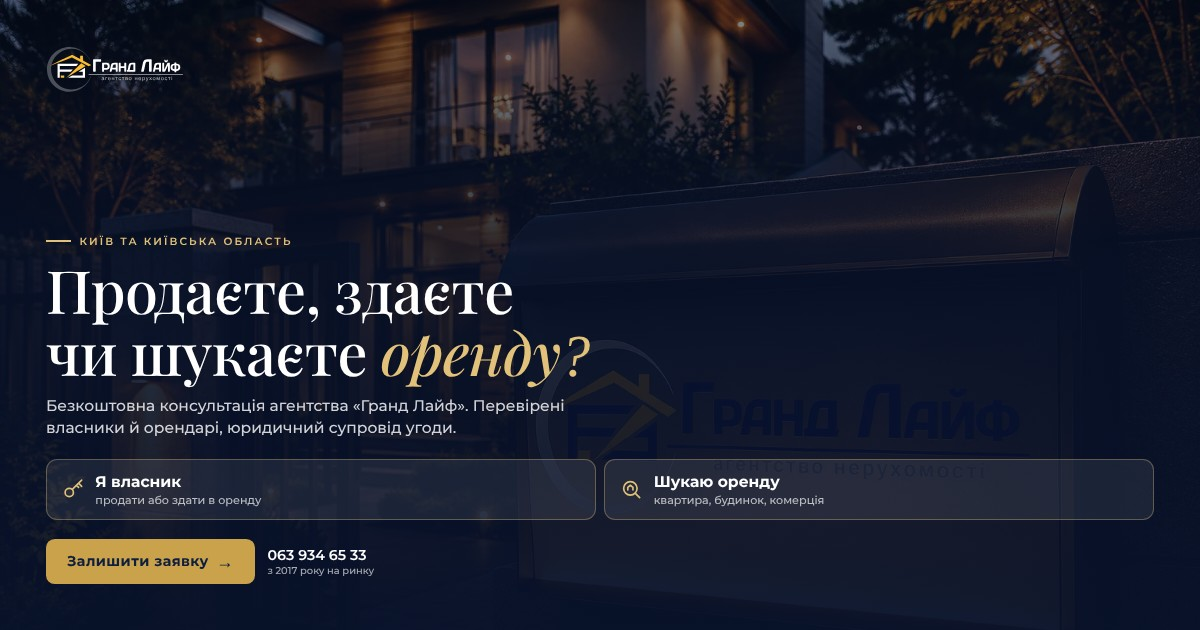
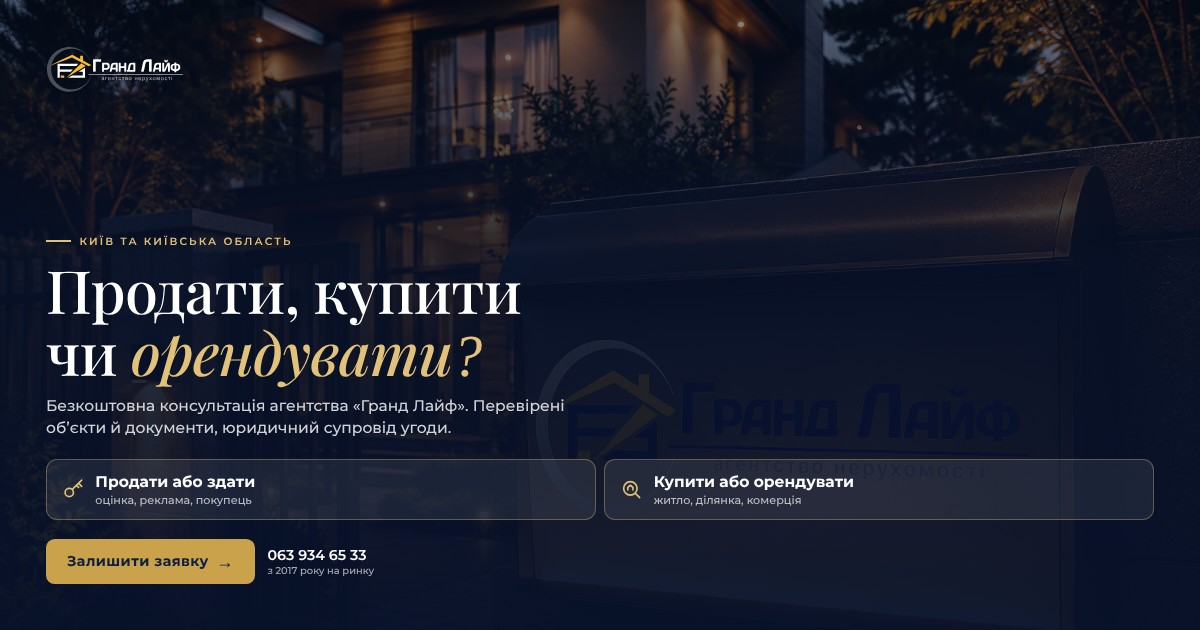
Popup: 'Що саме вас цікавить?' — sell/rent out or buy/rent
- Step 1: 'Продати або здати в оренду' / 'Купити або орендувати'
- Second branch now offers Купити / Орендувати (new lead kind 'Купівля')
- Admin labels, banner bar, landing preview and social banners updated
- Selected object type is clearly highlighted

Claude-Session: https://claude.ai/code/session_01KaPVfqdgp98MZxPFNyffPN

diff --git a/assets/promo.js b/assets/promo.js
@@ -1,7 +1,7 @@
 /* Реклама: вікно при відкритті сайту (крок 1 — «Ви власник чи шукаєте оренду?», крок 2 — форма для власника
    або для орендаря) і банер унизу, що їде за сторінкою.
    Заявки зберігаються в Supabase (таблиця grandlife_leads) і видно в адмінці → «Заявки». */
-import { S, I, esc, store, telHref, $ } from './core.js?v=20261128';
+import { S, I, esc, store, telHref, $ } from './core.js?v=20261129';
 
 const SENT = 'gl_lead_sent2';   // коли відвідувач залишив заявку (вікно 3 дні не показуємо)
 const ls = { get: (k) => { try { return localStorage.getItem(k); } catch { return null; } } };
@@ -18,7 +18,6 @@ const ICO = {
 };
 const phone = (S.phones || [])[0];
 const OBJECTS = ['Квартира', 'Будинок', 'Ділянка', 'Комерція'];
-const RENT_OBJECTS = ['Квартира', 'Будинок', 'Комерція'];
 
 /* Тексти обох гілок. Змінюйте тут. */
 const FLOW = {
@@ -26,17 +25,19 @@ const FLOW = {
     img: S.aboutImage || S.heroImage, badge: ['3 тижні', 'середній строк продажу'],
     kicker: 'Власникам нерухомості',
     title: 'Бажаєте <em>продати</em> чи <em>здати в оренду?</em>',
+    choices: [['Продаж', 'Продати', 'оцінка, реклама, покупець', 'sell'], ['Оренда', 'Здати в оренду', 'перевірені орендарі', 'rent']],
     lead: 'Безкоштовно оцінимо ваш об’єкт і знайдемо покупця або орендаря. Фото, реклама і юридичний супровід — беремо на себе.',
     objects: OBJECTS, objectsLabel: 'Що у вас є',
     submit: 'Отримати безкоштовну оцінку',
     done: 'Менеджер зателефонує вам найближчим часом, щоб домовитись про безкоштовну оцінку.',
   },
-  tenant: {
+  tenant: { // покупці та орендарі (?who=tenant або ?who=buyer)
     img: S.about?.image || S.aboutImage || S.heroImage, badge: ['Київ', 'та Київська область'],
-    kicker: 'Для орендарів',
-    title: 'Шукаєте нерухомість <em>в оренду?</em>',
-    lead: 'Підберемо квартиру, будинок або комерційне приміщення під ваш бюджет і район. Тільки перевірені власники, покази у зручний час і прозорий договір оренди.',
-    objects: RENT_OBJECTS, objectsLabel: 'Що шукаєте',
+    kicker: 'Для покупців і орендарів',
+    title: 'Бажаєте <em>купити</em> чи <em>орендувати?</em>',
+    lead: 'Підберемо квартиру, будинок, ділянку або комерцію під ваш бюджет і район. Перевіряємо документи й власників, організовуємо покази і супроводжуємо угоду.',
+    choices: [['Купівля', 'Купити', 'перевірені об’єкти й документи', 'sell'], ['Шукає оренду', 'Орендувати', 'перевірені власники', 'rent']],
+    objects: OBJECTS, objectsLabel: 'Що шукаєте',
     submit: 'Підібрати варіанти',
     done: 'Менеджер зателефонує вам найближчим часом, уточнить побажання і надішле підходящі варіанти.',
   },
@@ -50,11 +51,11 @@ export function mountFlow(body, { side = () => {}, close = () => {}, source = ''
     side(S.heroImage, ['Гранд Лайф', 'агентство нерухомості з 2017 року']);
     body.innerHTML = `
       <span class="kicker">Безкоштовна консультація</span>
-      <h2 class="h2" id="promoTitle">Ви <em>власник</em> чи шукаєте <em>оренду?</em></h2>
+      <h2 class="h2" id="promoTitle">Що саме вас <em>цікавить?</em></h2>
       <p class="promo-lead">Оберіть, і ми підкажемо, як допомогти саме вам.</p>
       <div class="promo-who">
-        <button type="button" data-who="owner">${ICO.owner}<span><b>Я власник</b><small>хочу продати або здати в оренду квартиру, будинок, ділянку чи комерцію</small></span>${ICO.arrow}</button>
-        <button type="button" data-who="tenant">${ICO.tenant}<span><b>Шукаю оренду</b><small>хочу орендувати житло або комерційне приміщення</small></span>${ICO.arrow}</button>
+        <button type="button" data-who="owner">${ICO.owner}<span><b>Продати або здати в оренду</b><small>квартиру, будинок, ділянку чи комерцію</small></span>${ICO.arrow}</button>
+        <button type="button" data-who="tenant">${ICO.tenant}<span><b>Купити або орендувати</b><small>квартиру, будинок, ділянку чи комерцію</small></span>${ICO.arrow}</button>
       </div>
       ${phone ? `<p class="promo-alt">або зателефонуйте: <a href="${telHref(phone)}">${esc(phone)}</a></p>` : ''}`;
     body.querySelector('.promo-who').onclick = (e) => { const b = e.target.closest('[data-who]'); if (b) stepForm(b.dataset.who); };
@@ -63,7 +64,7 @@ export function mountFlow(body, { side = () => {}, close = () => {}, source = ''
   /* Крок 2: форма для власника або орендаря */
   const stepForm = (who) => {
     const F = FLOW[who];
-    let kind = who === 'owner' ? 'Продаж' : 'Шукає оренду';
+    let kind = F.choices[0][0];
     let object = '';
     side(F.img, F.badge);
     body.innerHTML = `
@@ -72,10 +73,9 @@ export function mountFlow(body, { side = () => {}, close = () => {}, source = ''
       <h2 class="h2" id="promoTitle">${F.title}</h2>
       <p class="promo-lead">${F.lead}</p>
       <form class="promo-form" novalidate>
-        ${who === 'owner' ? `<div class="promo-choice" data-g="kind" role="radiogroup" aria-label="Що бажаєте">
-          <button type="button" data-v="Продаж" aria-pressed="true">${ICO.sell}<span><b>Продати</b><small>оцінка, реклама, покупець</small></span></button>
-          <button type="button" data-v="Оренда" aria-pressed="false">${ICO.rent}<span><b>Здати в оренду</b><small>перевірені орендарі</small></span></button>
-        </div>` : ''}
+        <div class="promo-choice" data-g="kind" role="radiogroup" aria-label="Що бажаєте">
+          ${F.choices.map(([v, b, s, ic], i) => `<button type="button" data-v="${v}" aria-pressed="${i === 0}">${ICO[ic]}<span><b>${b}</b><small>${s}</small></span></button>`).join('')}
+        </div>
         <div class="promo-objs-l">${F.objectsLabel}</div>
         <div class="promo-objs" data-g="object" role="radiogroup" aria-label="${F.objectsLabel}">
           ${F.objects.map((o) => `<button type="button" data-v="${o}" aria-pressed="false">${o}</button>`).join('')}
@@ -118,7 +118,8 @@ export function mountFlow(body, { side = () => {}, close = () => {}, source = ''
     if (!matchMedia('(max-width: 760px)').matches) setTimeout(() => form.phone.focus({ preventScroll: true }), 50);
   };
 
-  const begin = FLOW[start] ? () => stepForm(start) : stepWho;
+  const st = start === 'buyer' ? 'tenant' : start;
+  const begin = FLOW[st] ? () => stepForm(st) : stepWho;
   begin();
 }
 
@@ -138,7 +139,7 @@ export function promo() {
   <div class="promo-bar" id="promoBar" hidden>
     <div class="wrap">
       <span class="promo-bar-ic">${ICO.sell}</span>
-      <p><b>Продаєте, здаєте чи шукаєте оренду?</b><span> Безкоштовна консультація — підберемо рішення під вас.</span></p>
+      <p><b>Продати, купити чи орендувати?</b><span> Безкоштовна консультація — підберемо рішення під вас.</span></p>
       ${phone ? `<a class="btn line sm promo-bar-call" href="${telHref(phone)}" aria-label="Зателефонувати">${I.phone}<span>${esc(phone)}</span></a>` : ''}
       <button class="btn sm" type="button" id="promoOpen"><span class="pb-d">Залишити заявку</span><span class="pb-m">Заявка</span></button>
       <button class="promo-bar-x" type="button" aria-label="Сховати банер">${ICO.close}</button>

diff --git a/lead.html b/lead.html
@@ -8,9 +8,9 @@
 <!-- Превʼю посилання в соцмережах і месенджерах -->
 <meta property="og:type" content="website">
 <meta property="og:site_name" content="Гранд Лайф">
-<meta property="og:title" content="Продаєте, здаєте чи шукаєте оренду?">
+<meta property="og:title" content="Продати, купити чи орендувати нерухомість?">
 <meta property="og:description" content="Безкоштовна консультація агентства «Гранд Лайф». Київ та Київська область. Залиште номер — передзвонимо.">
-<meta property="og:image" content="https://anastasiakocubenko39-crypto.github.io/Grand-Life/promo/og-1200x630.jpg">
+<meta property="og:image" content="https://anastasiakocubenko39-crypto.github.io/Grand-Life/promo/og-1200x630.jpg?v=2">
 <meta property="og:image:width" content="1200">
 <meta property="og:image:height" content="630">
 <meta property="og:url" content="https://anastasiakocubenko39-crypto.github.io/Grand-Life/lead.html">
@@ -18,9 +18,9 @@
 <link rel="icon" href="assets/brand/mark.svg" type="image/svg+xml">
 <link rel="preconnect" href="https://fonts.googleapis.com"><link rel="preconnect" href="https://fonts.gstatic.com" crossorigin>
 <link href="https://fonts.googleapis.com/css2?family=Montserrat:wght@400;500;600;700&family=Playfair+Display:ital,wght@0,400;0,500;0,600;1,500&display=swap" rel="stylesheet">
-<link rel="stylesheet" href="theme.css?v=20261128">
-<link rel="stylesheet" href="assets/app.css?v=20261128">
-<script src="config.js?v=20261128"></script>
+<link rel="stylesheet" href="theme.css?v=20261129">
+<link rel="stylesheet" href="assets/app.css?v=20261129">
+<script src="config.js?v=20261129"></script>
 </head>
 <body class="landing">
   <div class="ld-bg"><img id="ldBg" alt=""></div>
@@ -48,8 +48,8 @@
   <footer class="ld-foot"><span id="ldFoot"></span> · <a href="index.html">Перейти на сайт</a></footer>
 
 <script type="module">
-import { S, esc, telHref, $ } from './assets/core.js?v=20261128';
-import { mountFlow } from './assets/promo.js?v=20261128';
+import { S, esc, telHref, $ } from './assets/core.js?v=20261129';
+import { mountFlow } from './assets/promo.js?v=20261129';
 
 $('#ldBg').src = S.heroImage;
 $('#ldLogo').src = S.logoLight;
@@ -57,7 +57,7 @@ const phone = (S.phones || [])[0];
 if (phone) { $('#ldCall').href = telHref(phone); $('#ldCall').textContent = phone; } else $('#ldCall').remove();
 $('#ldFoot').textContent = `© ${new Date().getFullYear()} ${S.name} · ${S.region || ''}`;
 
-// ?who=owner | ?who=tenant — одразу відкрити потрібну форму (для окремих рекламних кампаній).
+// ?who=owner (продати/здати) | ?who=buyer або ?who=tenant (купити/орендувати) — одразу відкрити потрібну форму (для окремих рекламних кампаній).
 // utm_source / utm_campaign — записуються в заявку, щоб бачити, з якої реклами прийшла людина.
 const q = new URLSearchParams(location.search);
 const src = [q.get('utm_source'), q.get('utm_campaign')].filter(Boolean).join(' / ');

diff --git a/assets/admin.js b/assets/admin.js
@@ -1,5 +1,5 @@
 /* Realty template — admin panel logic */
-import { S, TYPES, PUBLIC_TYPES, TYPE, CONDITIONS, WALLS, HEATING, PURPOSES, FEATURES, I, esc, fmt, store, norm, cardHTML, toast, supa as getSupa, $, $$ } from './core.js?v=20261128';
+import { S, TYPES, PUBLIC_TYPES, TYPE, CONDITIONS, WALLS, HEATING, PURPOSES, FEATURES, I, esc, fmt, store, norm, cardHTML, toast, supa as getSupa, $, $$ } from './core.js?v=20261129';
 
 const ICON = {
   list: '<svg viewBox="0 0 24 24" fill="none" stroke="currentColor" stroke-width="1.7"><path d="M4 20h16M6 20V9l6-5 6 5v11"/></svg>',
@@ -87,9 +87,9 @@ async function showLeads() {
   const draw = () => {
     $('#leadRows').innerHTML = LEADS.length ? LEADS.map((l) => `
       <div class="row lead${l.done ? ' done' : ''}" data-id="${esc(l.id)}">
-        <div class="th lead-ic">${l.kind === 'Шукає оренду' ? 'Ш' : l.kind === 'Оренда' ? 'О' : 'П'}</div>
+        <div class="th lead-ic">${({ 'Шукає оренду': 'О', 'Купівля': 'К', 'Оренда': 'З', 'Продаж': 'П' })[l.kind] || 'П'}</div>
         <div><h3>${esc(l.name || 'Без імені')} · <a href="tel:${esc(String(l.phone).replace(/[^\d+]/g, ''))}">${esc(l.phone)}</a></h3>
-          <div class="meta"><span class="pill">${l.kind === 'Шукає оренду' ? 'Орендар: шукає оренду' : l.kind === 'Оренда' ? 'Власник: здати в оренду' : 'Власник: продати'}</span>${l.object ? `<span class="pill">${esc(l.object)}</span>` : ''}${l.done ? '<span class="pill">Опрацьовано</span>' : '<span class="pill star">Нова</span>'}<span>${new Date(l.created_at).toLocaleString('uk-UA', { dateStyle: 'medium', timeStyle: 'short' })}</span>${l.page ? `<span>зі сторінки ${esc(l.page)}</span>` : ''}</div></div>
+          <div class="meta"><span class="pill">${({ 'Шукає оренду': 'Хоче орендувати', 'Купівля': 'Хоче купити', 'Оренда': 'Власник: здати в оренду', 'Продаж': 'Власник: продати' })[l.kind] || esc(l.kind)}</span>${l.object ? `<span class="pill">${esc(l.object)}</span>` : ''}${l.done ? '<span class="pill">Опрацьовано</span>' : '<span class="pill star">Нова</span>'}<span>${new Date(l.created_at).toLocaleString('uk-UA', { dateStyle: 'medium', timeStyle: 'short' })}</span>${l.page ? `<span>зі сторінки ${esc(l.page)}</span>` : ''}</div></div>
         <div class="acts">
           <a class="ibtn" href="tel:${esc(String(l.phone).replace(/[^\d+]/g, ''))}">Зателефонувати</a>
           <button class="ibtn${l.done ? '' : ' on'}" data-a="done">${l.done ? 'Повернути в нові' : 'Опрацьовано'}</button>

diff --git a/assets/core.js b/assets/core.js
@@ -197,7 +197,7 @@ export const store = {
   resetDemo() { localStorage.removeItem(DEMO_KEY); },
   /* Заявки з реклами (вікно і банер). Відвідувач може лише додати заявку; читати й змінювати — тільки адмін. */
   async lead(d) {
-    const KINDS = ['Продаж', 'Оренда', 'Шукає оренду'], OBJS = ['Квартира', 'Будинок', 'Ділянка', 'Комерція'];
+    const KINDS = ['Продаж', 'Оренда', 'Купівля', 'Шукає оренду'], OBJS = ['Квартира', 'Будинок', 'Ділянка', 'Комерція'];
     const row = { kind: KINDS.includes(d.kind) ? d.kind : 'Продаж', object: OBJS.includes(d.object) ? d.object : '', name: String(d.name || '').slice(0, 80), phone: String(d.phone || '').slice(0, 30), page: String(d.page || '').slice(0, 60) };
     if (!S.supabase) { const l = JSON.parse(localStorage.getItem(DEMO_KEY + '_leads') || '[]'); l.unshift({ ...row, id: Date.now(), created_at: new Date().toISOString(), done: false }); localStorage.setItem(DEMO_KEY + '_leads', JSON.stringify(l)); return; }
     check(await (await supa()).from(LEADS).insert(row));
@@ -302,7 +302,7 @@ export function layout({ page = '', overDark = false } = {}) {
   });
 
   // Реклама для власників: вікно при відкритті і банер унизу (assets/promo.js).
-  if (S.promo !== false) import('./promo.js?v=20261128').then((m) => m.promo()).catch((e) => console.error(e));
+  if (S.promo !== false) import('./promo.js?v=20261129').then((m) => m.promo()).catch((e) => console.error(e));
 }
 
 const io = 'IntersectionObserver' in window ? new IntersectionObserver((es) => es.forEach((e) => { if (e.isIntersecting) { e.target.classList.add('in'); io.unobserve(e.target); } }), { rootMargin: '0px 0px -6% 0px', threshold: .05 }) : null;

diff --git a/object.html b/object.html
@@ -8,9 +8,9 @@
 <link rel="icon" href="assets/brand/mark.svg" type="image/svg+xml">
 <link rel="preconnect" href="https://fonts.googleapis.com"><link rel="preconnect" href="https://fonts.gstatic.com" crossorigin>
 <link href="https://fonts.googleapis.com/css2?family=Montserrat:wght@400;500;600;700&family=Playfair+Display:ital,wght@0,400;0,500;0,600;1,500&display=swap" rel="stylesheet">
-<link rel="stylesheet" href="theme.css?v=20261128">
-<link rel="stylesheet" href="assets/app.css?v=20261128">
-<script src="config.js?v=20261128"></script>
+<link rel="stylesheet" href="theme.css?v=20261129">
+<link rel="stylesheet" href="assets/app.css?v=20261129">
+<script src="config.js?v=20261129"></script>
 </head>
 <body class="has-bar">
 <main class="obj"><div class="wrap" id="root"><div class="skeleton" style="min-height:520px;margin-top:30px"></div></div></main>
@@ -20,7 +20,7 @@
   <div class="lb-thumbs" id="lbThumbs"></div>
 </div>
 <script type="module">
-import { S, TYPE, I, esc, fmt, store, cardHTML, priceHTML, priceText, areaText, shortPurpose, layout, reveal, telHref, toast, $, $$ } from './assets/core.js?v=20261128';
+import { S, TYPE, I, esc, fmt, store, cardHTML, priceHTML, priceText, areaText, shortPurpose, layout, reveal, telHref, toast, $, $$ } from './assets/core.js?v=20261129';
 layout({ page: 'catalog' });
 $('#lbClose').innerHTML = I.x; $('#lbPrev').innerHTML = I.left; $('#lbNext').innerHTML = I.right;
 const id = new URLSearchParams(location.search).get('id');

diff --git a/catalog.html b/catalog.html
@@ -8,9 +8,9 @@
 <link rel="icon" href="assets/brand/mark.svg" type="image/svg+xml">
 <link rel="preconnect" href="https://fonts.googleapis.com"><link rel="preconnect" href="https://fonts.gstatic.com" crossorigin>
 <link href="https://fonts.googleapis.com/css2?family=Montserrat:wght@400;500;600;700&family=Playfair+Display:ital,wght@0,400;0,500;0,600;1,500&display=swap" rel="stylesheet">
-<link rel="stylesheet" href="theme.css?v=20261128">
-<link rel="stylesheet" href="assets/app.css?v=20261128">
-<script src="config.js?v=20261128"></script>
+<link rel="stylesheet" href="theme.css?v=20261129">
+<link rel="stylesheet" href="assets/app.css?v=20261129">
+<script src="config.js?v=20261129"></script>
 </head>
 <body>
 <main>
@@ -52,7 +52,7 @@
   </div>
 </main>
 <script type="module">
-import { S, PUBLIC_TYPES as TYPES, TYPE, CONDITIONS, I, esc, store, cardHTML, layout, reveal, $, $$ } from './assets/core.js?v=20261128';
+import { S, PUBLIC_TYPES as TYPES, TYPE, CONDITIONS, I, esc, store, cardHTML, layout, reveal, $, $$ } from './assets/core.js?v=20261129';
 layout({ page: 'catalog' });
 $('#openF').innerHTML = I.filter + 'Фільтри'; $('#vGrid').innerHTML = I.grid; $('#vList').innerHTML = I.list;
 const QUICK = ['Можлива іпотека', 'Можлива розстрочка', 'Укриття', 'Генератор / автономність', 'Паркінг', 'Тераса', 'Меблі', 'Можна з тваринами'];

diff --git a/index.html b/index.html
@@ -11,9 +11,9 @@
 <link rel="icon" href="assets/brand/mark.svg" type="image/svg+xml">
 <link rel="preconnect" href="https://fonts.googleapis.com"><link rel="preconnect" href="https://fonts.gstatic.com" crossorigin>
 <link href="https://fonts.googleapis.com/css2?family=Montserrat:wght@400;500;600;700&family=Playfair+Display:ital,wght@0,400;0,500;0,600;1,500&display=swap" rel="stylesheet">
-<link rel="stylesheet" href="theme.css?v=20261128">
-<link rel="stylesheet" href="assets/app.css?v=20261128">
-<script src="config.js?v=20261128"></script>
+<link rel="stylesheet" href="theme.css?v=20261129">
+<link rel="stylesheet" href="assets/app.css?v=20261129">
+<script src="config.js?v=20261129"></script>
 </head>
 <body>
 <main>
@@ -84,7 +84,7 @@
   </section>
 </main>
 <script type="module">
-import { S, PUBLIC_TYPES as TYPES, TYPE, I, esc, store, cardHTML, layout, reveal, telHref, $ } from './assets/core.js?v=20261128';
+import { S, PUBLIC_TYPES as TYPES, TYPE, I, esc, store, cardHTML, layout, reveal, telHref, $ } from './assets/core.js?v=20261129';
 layout({ page: 'home', overDark: true });
 $('#heroImg').src = S.heroImage;
 $('#heroKicker').textContent = S.heroKicker;

diff --git a/about.html b/about.html
@@ -8,9 +8,9 @@
 <link rel="icon" href="assets/brand/mark.svg" type="image/svg+xml">
 <link rel="preconnect" href="https://fonts.googleapis.com"><link rel="preconnect" href="https://fonts.gstatic.com" crossorigin>
 <link href="https://fonts.googleapis.com/css2?family=Montserrat:wght@400;500;600;700&family=Playfair+Display:ital,wght@0,400;0,500;0,600;1,500&display=swap" rel="stylesheet">
-<link rel="stylesheet" href="theme.css?v=20261128">
-<link rel="stylesheet" href="assets/app.css?v=20261128">
-<script src="config.js?v=20261128"></script>
+<link rel="stylesheet" href="theme.css?v=20261129">
+<link rel="stylesheet" href="assets/app.css?v=20261129">
+<script src="config.js?v=20261129"></script>
 </head>
 <body>
 <main>
@@ -83,7 +83,7 @@
   </section>
 </main>
 <script type="module">
-import { S, I, esc, layout, reveal, telHref, $ } from './assets/core.js?v=20261128';
+import { S, I, esc, layout, reveal, telHref, $ } from './assets/core.js?v=20261129';
 layout({ page: 'about' });
 const A = S.about;
 $('#aTitle').innerHTML = A.title; $('#aIntro').textContent = A.intro;

diff --git a/admin.html b/admin.html
@@ -8,10 +8,10 @@
 <link rel="icon" href="assets/brand/mark.svg" type="image/svg+xml">
 <link rel="preconnect" href="https://fonts.googleapis.com"><link rel="preconnect" href="https://fonts.gstatic.com" crossorigin>
 <link href="https://fonts.googleapis.com/css2?family=Montserrat:wght@400;500;600;700&family=Playfair+Display:ital,wght@0,400;0,500;0,600;1,500&display=swap" rel="stylesheet">
-<link rel="stylesheet" href="theme.css?v=20261128">
-<link rel="stylesheet" href="assets/app.css?v=20261128">
-<link rel="stylesheet" href="assets/admin.css?v=20261128">
-<script src="config.js?v=20261128"></script>
+<link rel="stylesheet" href="theme.css?v=20261129">
+<link rel="stylesheet" href="assets/app.css?v=20261129">
+<link rel="stylesheet" href="assets/admin.css?v=20261129">
+<script src="config.js?v=20261129"></script>
 </head>
 <body class="admin">
 
@@ -36,6 +36,6 @@
   <main class="adm-main" id="main"></main>
 </div>
 
-<script type="module" src="assets/admin.js?v=20261128"></script>
+<script type="module" src="assets/admin.js?v=20261129"></script>
 </body>
 </html>

diff --git a/assets/app.css b/assets/app.css
@@ -505,7 +505,7 @@ body.has-promo-bar { padding-bottom: 96px; }
 .promo-objs-l { font-size: 11px; font-weight: 600; letter-spacing: .14em; text-transform: uppercase; color: var(--muted); margin: 4px 0 8px; }
 .promo-objs { display: flex; flex-wrap: wrap; gap: 8px; margin-bottom: 14px; }
 .promo-objs button { padding: 9px 14px; border-radius: 999px; border: 1.5px solid var(--line-strong); background: var(--bg); color: var(--heading); font: inherit; font-size: 13.5px; font-weight: 600; cursor: pointer; transition: border-color .2s, background .2s; }
-.promo-objs button[aria-pressed="true"] { border-color: var(--accent); background: var(--accent-soft); }
+.promo-objs button[aria-pressed="true"] { border-color: var(--heading); background: var(--heading); color: #fff; }
 .promo-side img { transition: opacity .3s; }
 @media (max-width: 760px) {
   .promo-who button { padding: 14px; }
